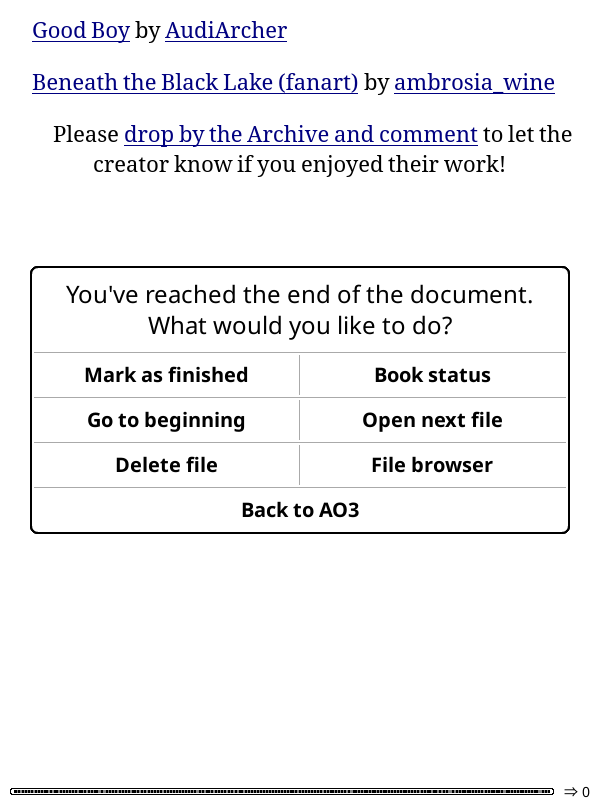
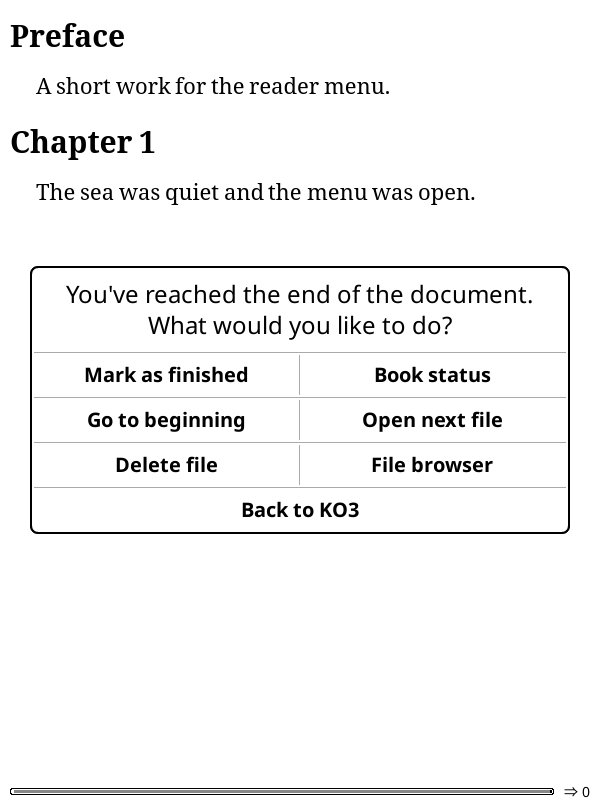
Rename the reader shortcut to Back to KO3
The reader menu item and the end-of-work dialog now match the plugin's name; both still return to the KO3 screen the work was opened from. Screenshots 15 and 16 regenerated from the emulator.

diff --git a/future_work.md b/future_work.md
@@ -5,7 +5,7 @@ Planned improvements and feature ideas for KO3, aligned with the native-widget, 
 ## Improvements to Existing Features
 
 ### Reader "Work details" from the reader
-- **Problem:** Finishing a work leaves the reader with **Back to AO3**, which returns to the listing or Downloads it was opened from, not that work's **Work details**. The landing page's **Continue reading** row reopens the copy, but leaving kudos, a bookmark or a subscription still takes a trip through the listing.
+- **Problem:** Finishing a work leaves the reader with **Back to KO3**, which returns to the listing or Downloads it was opened from, not that work's **Work details**. The landing page's **Continue reading** row reopens the copy, but leaving kudos, a bookmark or a subscription still takes a trip through the listing.
 - **Idea:** Record the work ID alongside the active reader path and add **Work details** to the reader menu and end-of-document dialog, jumping straight to `openWorkDetails(id)`.
 
 ### Settings cache info
